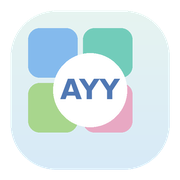
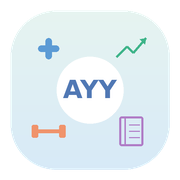
换线性图标+调配色+财经加投资行业推荐

Changed region(s): [[0.1389, 0.1389, 0.8333, 0.8333]]

diff --git a/index.html b/index.html
@@ -19,15 +19,15 @@
   --bg:#f4f7fa; --bg-2:#ffffff; --card:#ffffff; --card-2:#f0f4f8;
   --border:#e2e8f0; --text:#2d3748; --muted:#718096; --dim:#a0aec0;
   --radius:14px;
-  /* 模块主题色 */
-  --m-med:#5b9bd5;    /* 医疗-清新蓝 */
-  --m-med-l:#e8f1fa;
-  --m-fin:#3eb489;    /* 财经-清新绿 */
-  --m-fin-l:#e6f7f0;
-  --m-fit:#f0936b;    /* 健身-清新橙 */
-  --m-fit-l:#fdeee6;
-  --m-note:#b07cc6;   /* 笔记-清新紫 */
-  --m-note-l:#f3edf8;
+  /* 模块主题色（柔和清新） */
+  --m-med:#4a90d9;    /* 医疗-湖水蓝 */
+  --m-med-l:#eaf3fb;
+  --m-fin:#3eb489;    /* 财经-薄荷绿 */
+  --m-fin-l:#e8f7f1;
+  --m-fit:#e8956b;    /* 健身-暖橘 */
+  --m-fit-l:#fdf0e8;
+  --m-note:#9b6bb5;   /* 笔记-薰衣草紫 */
+  --m-note-l:#f4eef8;
   --accent:#5b9bd5; --accent-2:#3eb489; --warn:#f6ad55; --danger:#fc8181;
   --pink:#d57ee0; --gold:#f6c343;
 }
@@ -196,6 +196,14 @@ label{font-size:12px;color:var(--muted);display:block;margin-bottom:5px}
 .insight ul{padding-left:18px;font-size:13px;color:var(--text)}
 .insight li{margin-bottom:5px;line-height:1.6}
 .insight li b{color:var(--m-fin)}
+.sector-card{background:#f7fafc;border:1px solid var(--border);border-radius:10px;padding:12px;border-left:3px solid var(--m-fin)}
+.sector-card .s-name{font-weight:600;font-size:14px;color:var(--m-fin);margin-bottom:4px;display:flex;align-items:center;justify-content:space-between}
+.sector-card .s-tag{font-size:10px;padding:1px 7px;border-radius:10px;font-weight:500}
+.sector-card .s-tag.hot{background:#fef0e7;color:var(--m-fit)}
+.sector-card .s-tag.steady{background:var(--m-fin-l);color:var(--m-fin)}
+.sector-card .s-tag.careful{background:#fef0f0;color:var(--danger)}
+.sector-card .s-desc{font-size:12px;color:var(--muted);line-height:1.5}
+.sector-card .s-why{font-size:11px;color:var(--dim);margin-top:4px}
 
 /* ===== 健身 ===== */
 .workout-log{display:flex;flex-direction:column;gap:10px;max-height:380px;overflow:auto}
@@ -251,10 +259,10 @@ label{font-size:12px;color:var(--muted);display:block;margin-bottom:5px}
 <header class="topbar">
   <div class="brand"><span class="dot"></span>AYY 工作台<small>v1.0 · 本地私有</small></div>
   <nav class="tabs">
-    <button class="active" data-tab="medical"><span class="ico">🏥</span><span>医疗</span></button>
-    <button data-tab="finance"><span class="ico">📈</span><span>财经</span></button>
-    <button data-tab="fitness"><span class="ico">💪</span><span>健身</span></button>
-    <button data-tab="notes"><span class="ico">🔒</span><span>笔记</span></button>
+    <button class="active" data-tab="medical"><span class="ico"><svg width="22" height="22" viewBox="0 0 24 24" fill="none" stroke="currentColor" stroke-width="2.2" stroke-linecap="round"><path d="M12 5v14M5 12h14"/></svg></span><span>医疗</span></button>
+    <button data-tab="finance"><span class="ico"><svg width="22" height="22" viewBox="0 0 24 24" fill="none" stroke="currentColor" stroke-width="2.2" stroke-linecap="round" stroke-linejoin="round"><path d="M3 17l6-6 4 4 8-8M21 7v6h-6"/></svg></span><span>财经</span></button>
+    <button data-tab="fitness"><span class="ico"><svg width="22" height="22" viewBox="0 0 24 24" fill="none" stroke="currentColor" stroke-width="2.2" stroke-linecap="round"><rect x="2" y="9" width="3" height="6" rx="1"/><rect x="19" y="9" width="3" height="6" rx="1"/><rect x="6" y="10" width="2" height="4"/><rect x="16" y="10" width="2" height="4"/><path d="M8 12h8"/></svg></span><span>健身</span></button>
+    <button data-tab="notes"><span class="ico"><svg width="22" height="22" viewBox="0 0 24 24" fill="none" stroke="currentColor" stroke-width="2.2" stroke-linecap="round" stroke-linejoin="round"><path d="M4 4a2 2 0 012-2h12a2 2 0 012 2v16a2 2 0 01-2 2H6a2 2 0 01-2-2V4z"/><path d="M8 2v20"/><path d="M11 7h6M11 11h6M11 15h4"/></svg></span><span>笔记</span></button>
   </nav>
   <div class="clock" id="clock">--</div>
 </header>
@@ -345,6 +353,13 @@ label{font-size:12px;color:var(--muted);display:block;margin-bottom:5px}
         <ul id="insightList"></ul>
       </div>
     </div>
+  </div>
+
+  <!-- 投资行业推荐 -->
+  <div class="card" style="margin-top:16px">
+    <h3><span class="ico">🎯</span>投资行业推荐</h3>
+    <div class="grid g-3" id="sectorGrid"></div>
+    <div class="hint" style="margin-top:10px">以上为基于当日市场热点的行业方向梳理，仅供参考，不构成投资建议。投资有风险，入市需谨慎。</div>
   </div>
 </section>
 
@@ -809,6 +824,14 @@ const BUILTIN_FINANCE = {
     "<b>人民币升值利好进口与海外消费</b>：在岸人民币6.7702，美元走弱背景下，海淘、留学换汇成本下降。",
     "<b>LPR维持3.0%/3.5%，房贷利率低位</b>：5年期LPR 3.5%处于低位，刚需购房贷款成本较低，存量房贷可关注重定价机会。",
     "<b>国债收益率下行，锁定长期收益</b>：10年期国债1.724%，偏好稳健者可关注长债基金，但需注意利率反弹风险。"
+  ],
+  sectors:[
+    {name:"半导体/存储芯片",tag:"hot",reason:"长鑫科技上市激活产业链，存储芯片国产替代加速",how:"相关ETF或龙头个股，仓位控制在10%以内"},
+    {name:"黄金",tag:"steady",reason:"金价高位但长期避险价值仍在，短期波动加大",how:"定投黄金ETF/积金，分批买入，避免追高"},
+    {name:"航空/物流",tag:"hot",reason:"油价大跌直接降低运营成本，人民币升值利好出境游",how:"航空股或物流ETF，受益油价下行"},
+    {name:"国债/债券基金",tag:"steady",reason:"收益率下行，长债价格上涨，LPR低位维持",how:"长债基金或国债ETF，适合稳健配置"},
+    {name:"存储/算力硬件",tag:"hot",reason:"AI算力需求持续，英伟达为OpenAI提供融资担保",how:"算力ETF，关注龙头但注意回调风险"},
+    {name:"新能源车/混动",tag:"careful",reason:"大众否认呼吁对中国混动加税，行业政策不确定性仍存",how:"观望为主，关注政策落地后再考虑"}
   ]
 };
 let financeData=LS.get('finance',null)||BUILTIN_FINANCE;
@@ -842,6 +865,16 @@ function renderFinance(){
   $('#finNews').innerHTML=f.newsFinance.map(n=>`<div class="news-item"><div class="nt">${n.t}</div><div class="nm">${n.m}</div><div class="nsrc">${n.s||''}</div></div>`).join('');
   $('#socNews').innerHTML=f.newsSocial.map(n=>`<div class="news-item"><div class="nt">${n.t}</div><div class="nm">${n.m}</div></div>`).join('');
   $('#insightList').innerHTML=f.insights.map(i=>`<li>${i}</li>`).join('');
+  // 行业推荐
+  const tagMap={hot:{lab:'热门',cls:'hot'},steady:{lab:'稳健',cls:'steady'},careful:{lab:'谨慎',cls:'careful'}};
+  $('#sectorGrid').innerHTML=(f.sectors||[]).map(s=>{
+    const t=tagMap[s.tag]||tagMap.steady;
+    return `<div class="sector-card">
+      <div class="s-name">${s.name}<span class="s-tag ${t.cls}">${t.lab}</span></div>
+      <div class="s-desc">${s.reason}</div>
+      <div class="s-why">💡 ${s.how}</div>
+    </div>`;
+  }).join('');
 }
 function drawGoldChart(data){
   const c=$('#goldChart'),ctx=c.getContext('2d');
